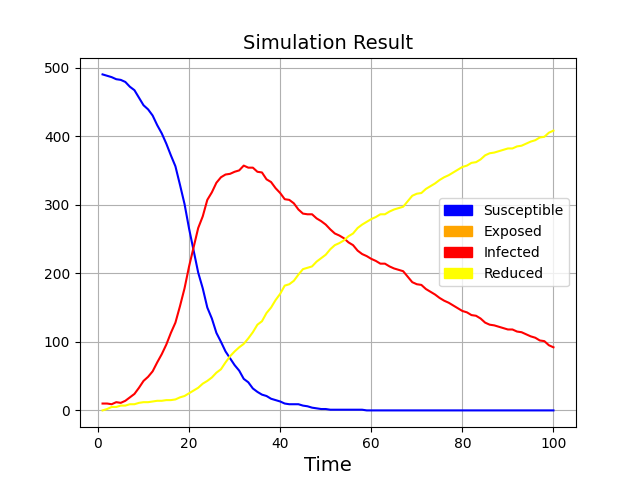
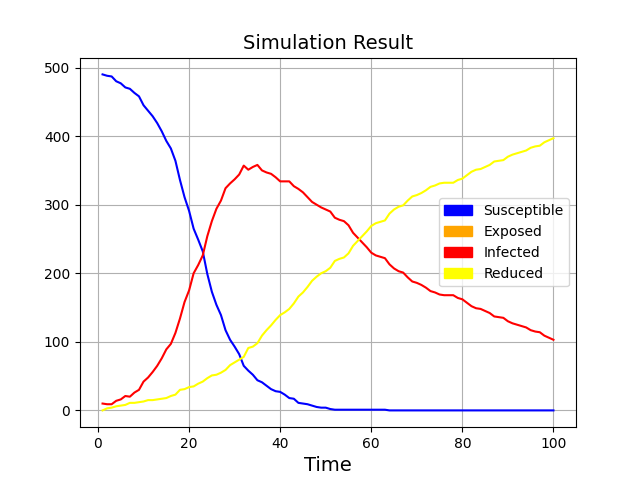
Aggiunta miglioria per la precisione di SEIR
- Quando il tempo residuo in I è inferiore ad 1 si sceglie se il nodo cambia stato in base al tempo residuo (modificato SIR e SEIR)
- siccome in Python nell'if in una catena di "and" si restituisce il primo elemento false oppure l'ultimo true e in una catena di or si restiuisce il primo true o l'ultimo false la condizione elem <= uniform(0, 1) è stata inserita al fondo delle catene

diff --git a/main.py b/main.py
@@ -38,6 +38,7 @@ families = []  # list of families, each family is a list of nodes
 commuter_partitions = []  # list of list of people that use one specific station
 tube_users = []  # list of list of people that use one specific tube/bus
 clock = 0
+precision_ctrl = True  # if True the simulator choose if the node change state when his trace time is less than 1
 
 
 def generate_partitions(input_list, min_size=1, max_size=6):
@@ -406,7 +407,9 @@ def sim_SIR(graph, start_t, end_t):
         # I --> R
         for index in range(len(i_list) - 1, -1, -1):
             # if infect[0] in part:
-            if i_list[index][1] <= 0:  # abbiamo superato la durata dell'infezione generata
+            if i_list[index][1] <= 0 or (
+                precision_ctrl and i_list[index][1] <= 1 and random.uniform(0, 1) <= i_list[index][
+                1]):  # abbiamo superato la durata dell'infezione generata
                 r_list.append(i_list[index][0])
                 i_list.remove(i_list[index])
             else:
@@ -424,6 +427,57 @@ def sim_SIR(graph, start_t, end_t):
 
 
 def sim_SEIR(graph, start_t, end_t):
+    global s_list
+    global e_list
+    global i_list
+    global r_list
+    global s_t
+    global e_t
+    global i_t
+    global r_t
+
+    gamma1 = gamma * (1 / step_p_day)
+    sigma1 = sigma * (1 / step_p_day)
+    beta1 = beta * (1 / step_p_day)
+
+    for step in range(start_t, end_t):
+        if (step % step_p_day) == 0:
+            s_t.append(len(s_list))
+            e_t.append(len(e_list))
+            i_t.append(len(i_list))
+            r_t.append(len(r_list))
+        # I --> R
+        for index in range(len(i_list) - 1, -1, -1):
+            # if infect[0] in part:
+            if i_list[index][1] <= 0 or (
+                precision_ctrl and i_list[index][1] <= 1 and random.uniform(0, 1) <= i_list[index][1]):
+                r_list.append(i_list[index][0])
+                i_list.remove(i_list[index])
+            else:
+                i_list[index][1] -= 1
+        # E --> I
+        # print("Prima: " + str(e_list))
+        for index in range(len(e_list) - 1, -1, -1):
+            if e_list[index][1] <= 0 or (
+                precision_ctrl and e_list[index][1] <= 1 and random.uniform(0, 1) <= e_list[index][1]):
+                duration_gamma = random.expovariate(gamma1)
+                i_list.append([e_list[index][0], duration_gamma])
+                e_list.remove(e_list[index])
+            else:
+                e_list[index][1] -= 1
+        # print("Dopo: " + str(e_list))
+        for index in range(0, len(i_list)):
+            ngbs = graph.neighbors(i_list[index][0])
+            for ngb in ngbs:
+                if ngb in s_list:
+                    r = random.uniform(0.0, 1.0)
+                    if r < beta1:  # l'infetto contatta il vicino
+                        duration_sigma = random.expovariate(sigma1)
+                        e_list.append([ngb, duration_sigma])
+                        s_list.remove(ngb)
+
+
+def sim_SEIRLessPrec(graph, start_t, end_t):
     global s_list
     global e_list
     global i_list
@@ -469,44 +523,6 @@ def sim_SEIR(graph, start_t, end_t):
                     if r < beta1:  # l'infetto contatta il vicino
                         duration_sigma = random.expovariate(sigma1)
                         e_list.append([ngb, duration_sigma])
-                        s_list.remove(ngb)
-
-
-def sim_SIROld(graph, start_t, end_t):
-    global s_list
-    global i_list
-    global r_list
-    global s_t
-    global i_t
-    global r_t
-
-    gamma1 = gamma * (1 / step_p_day)
-    sigma1 = sigma * (1 / step_p_day)
-    beta1 = beta * (1 / step_p_day)
-
-    for step in range(start_t, end_t):
-        if (step % step_p_day) == 0:
-            s_t.append(len(s_list))
-            e_t.append(len(e_list))
-            i_t.append(len(i_list))
-            r_t.append(len(r_list))
-        # I --> R
-        for index in range(len(i_list) - 1, -1, -1):
-            if i_list[index][1] <= 0:  # abbiamo superato la durata dell'infezione generata
-                r_list.append(i_list[index][0])
-                i_list.remove(i_list[index])
-            else:
-                i_list[index][1] -= 1
-
-        for elem in i_list:
-            # if elem[0] in part:
-            ngbs = graph.neighbors(elem[0])
-            for ngb in ngbs:
-                if ngb in s_list:
-                    r = random.uniform(0.0, 1.0)
-                    if r < beta1:  # l'infetto contatta il vicino
-                        duration_gamma = random.expovariate(gamma1)
-                        i_list.append([elem[0], duration_gamma])
                         s_list.remove(ngb)
 
 
@@ -808,11 +824,10 @@ if __name__ == '__main__':
         r_t = [10, 1, 1]
         fm.write_csv(s_t, e_t, i_t, r_t, 3)
         [a, b, c, d] = fm.calculate_average_from_csv()
-        fm.clear_csv()
-        # print(a)
-        # print(b)
-        # print(c)
-        # print(d)
+        print(a)
+        print(b)
+        print(c)
+        print(d)
 
     else:
         parse_input_file()
